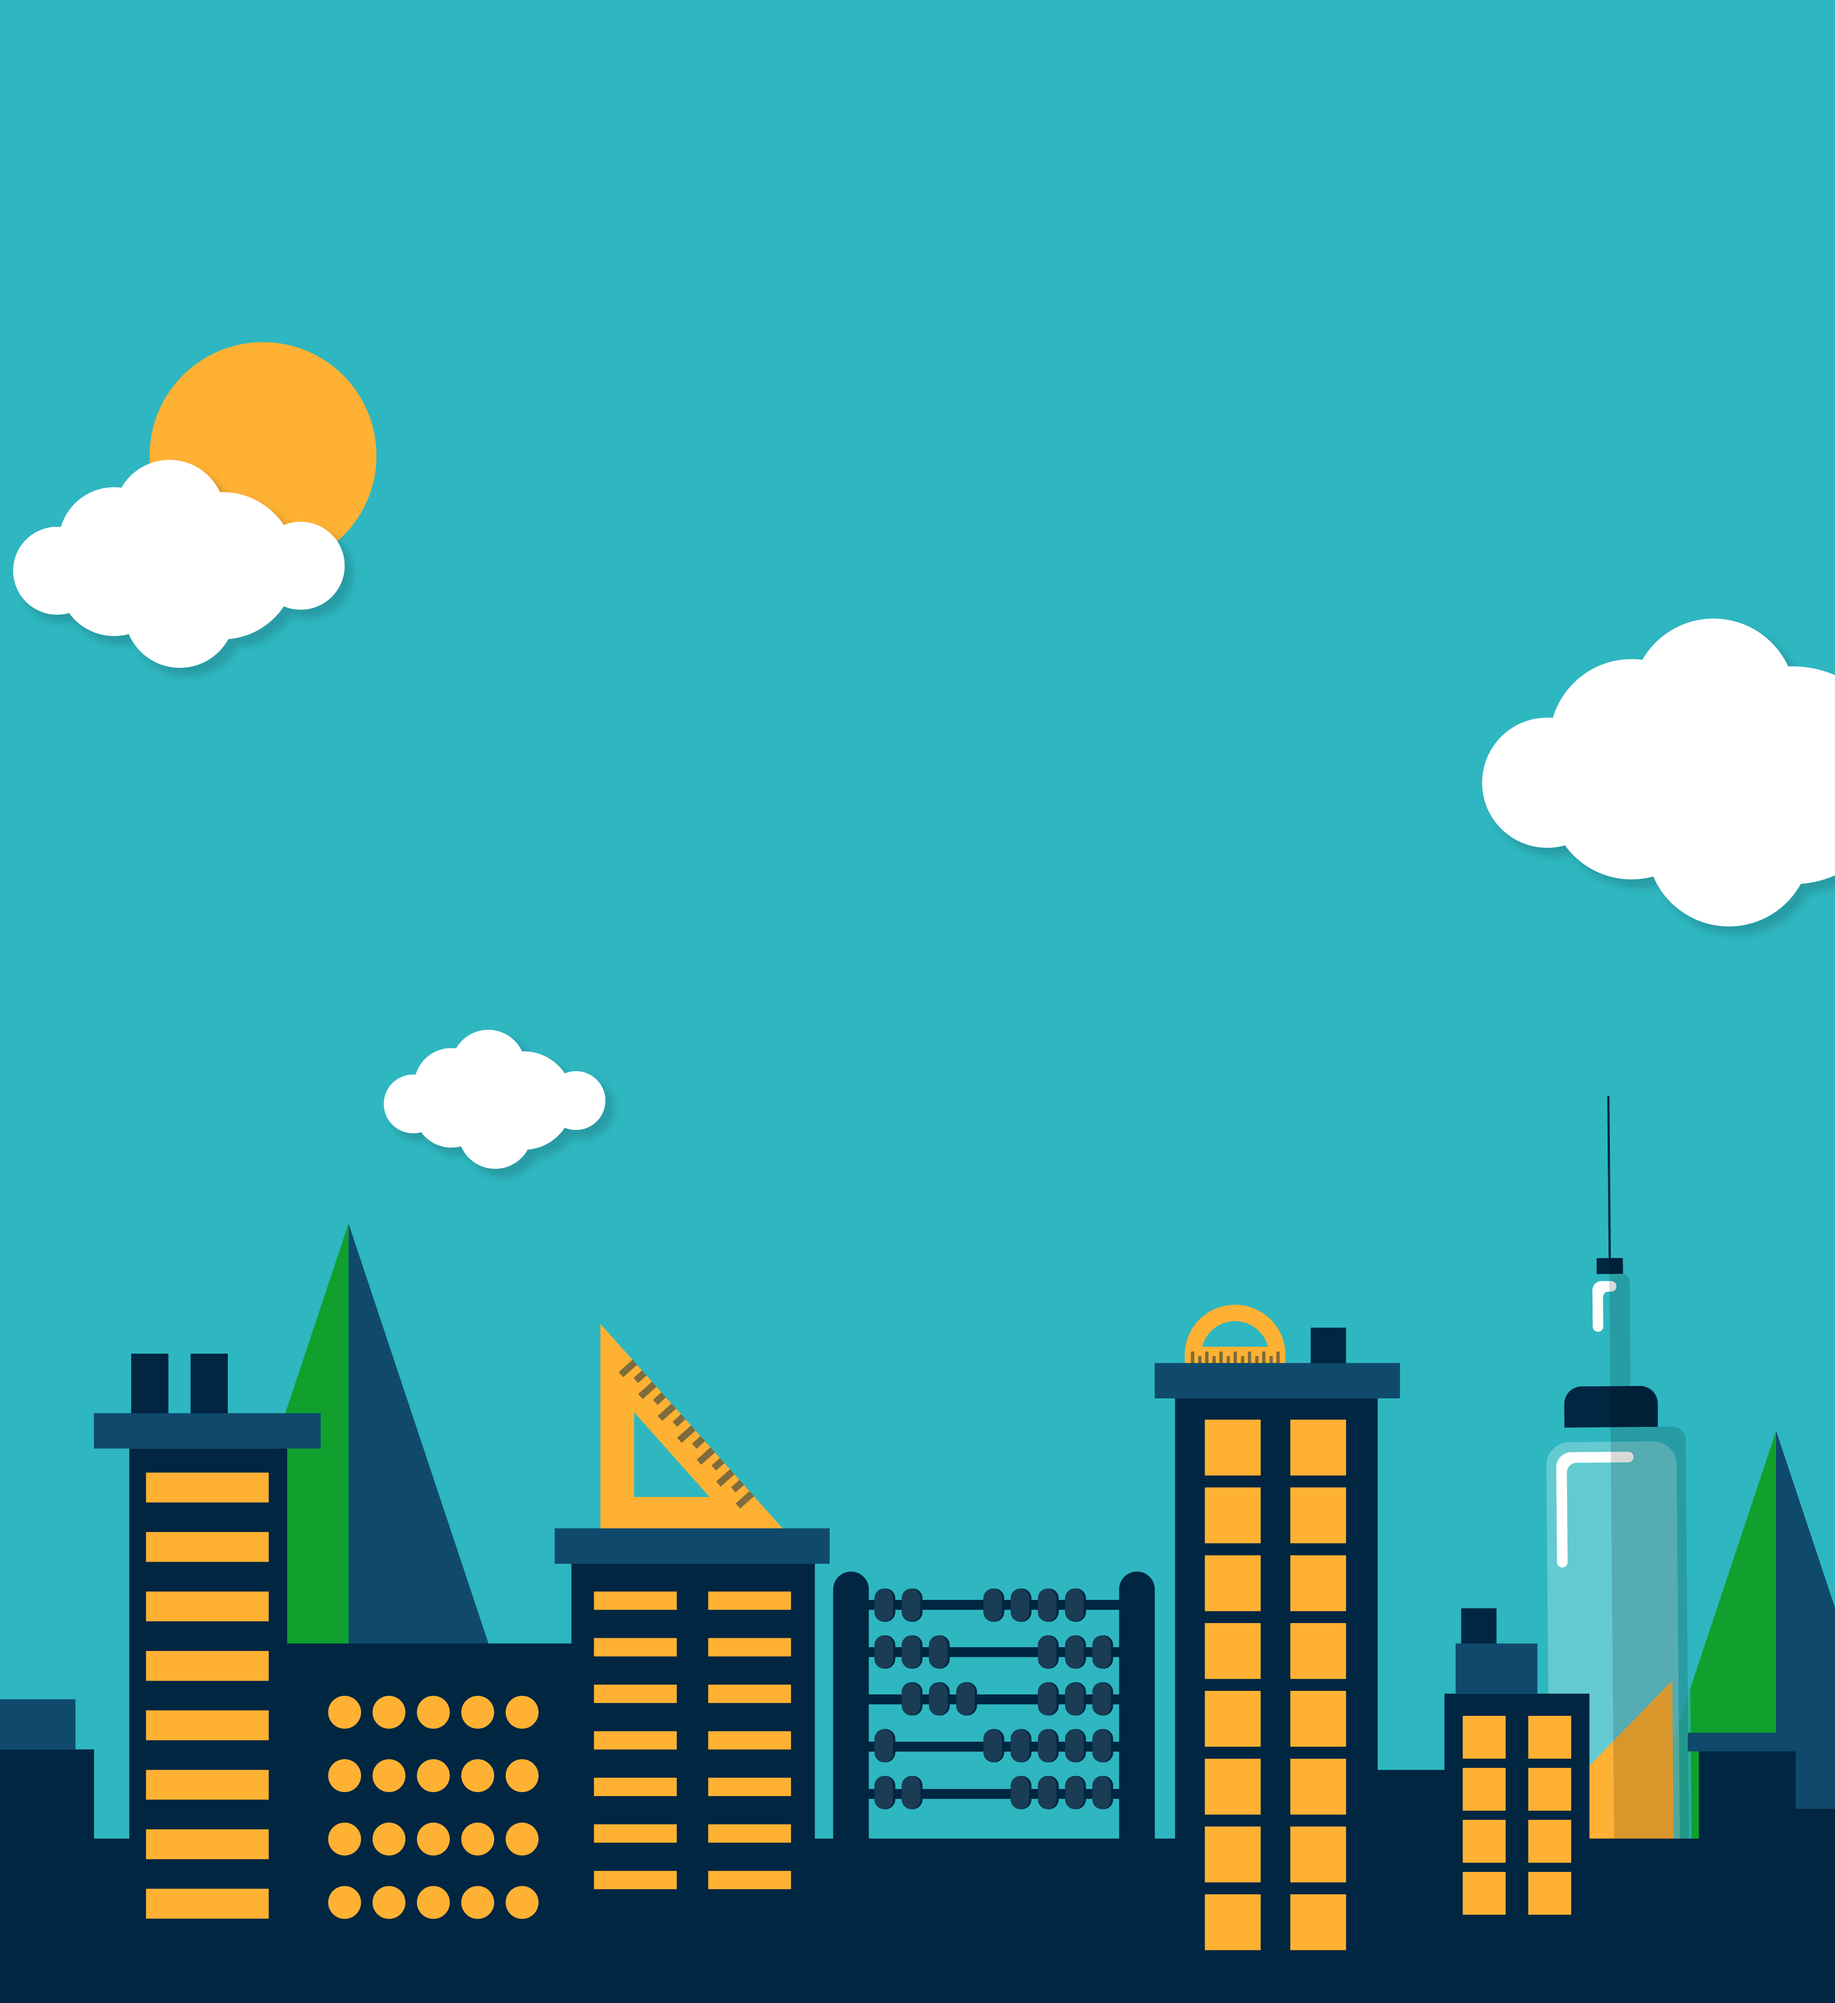
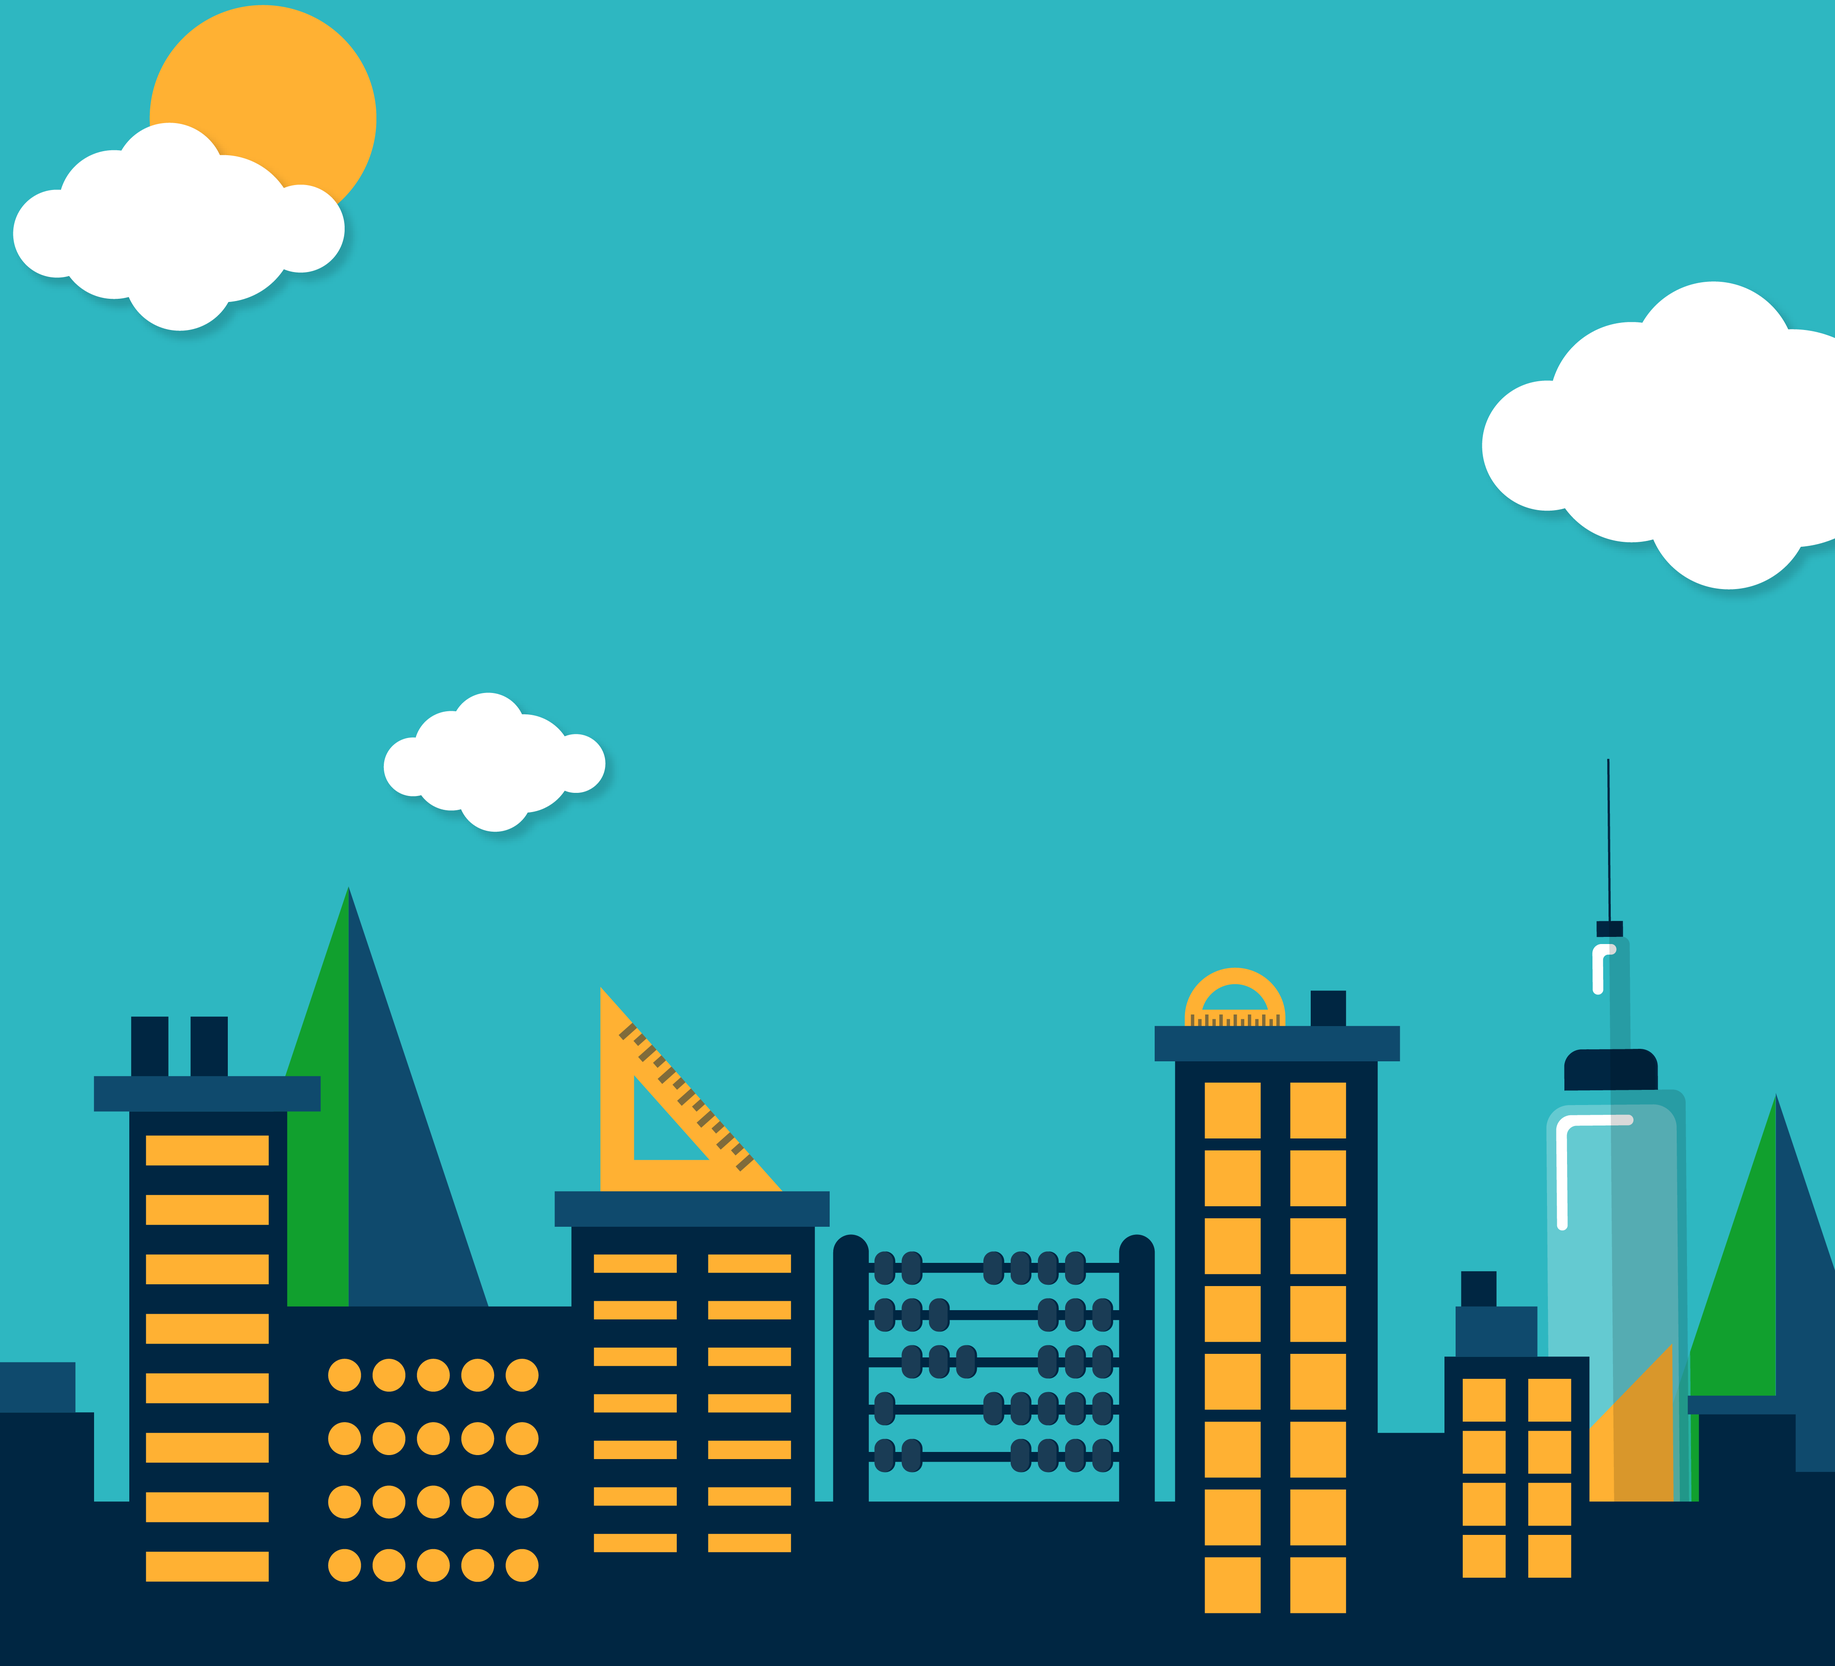
CI: fix welcome page UX #223

Changed region(s): [[0.0, 0.4036, 1.0, 0.9936], [0.8086, 0.1552, 1.0, 0.4657], [0.0, 0.0, 0.2177, 0.3415]]

diff --git a/ci/src/app/_components/welcome/welcome.component.scss b/ci/src/app/_components/welcome/welcome.component.scss
@@ -70,7 +70,7 @@
 				display: flex;
 				justify-content: center;
 				align-items: center;
-				flex-direction: column;
+				flex-direction: row;
 				flex-wrap: wrap;
 				z-index: 1;
 				.register-button, .login-button, .try-button {
@@ -118,14 +118,17 @@
 		float: right;
 		width: 50%;
 		height: 100%;
+		background-color: $teal;
 		background-image: url("/assets/images/welcome-bg.png");
-		background-size: cover;
+		background-size: contain;
+		background-position: center bottom;
 		background-repeat: no-repeat;
 		.right-text {
 			color: white;
 			font-size: 34px;
 			height: 100vh;
-		} 
+			z-index: 1;
+		}
 	}
 }
 
@@ -143,6 +146,7 @@
 	.welcome {
 		.left {
 			.logo-container {
+
 				.logo {
 					left: 54.5px; 
 					top: 19px;
@@ -253,9 +257,113 @@
 	.welcome {
 		.left {
 			width: 100%;
+			.logo-container {
+				height: 12%;
+				.logo {
+					left: 38.5px; 
+					top: 14px;
+				    width: 83.6px;
+				}
+			}
+			.left-container {
+				height: 88%;
+				.header {
+					width: 80%;
+				}
+				.copy {
+					width: 80%;
+				}
+				.line {
+					width: 82%;
+				}
+				.buttons-container {
+					width: 80%;
+					flex-direction: column;
+					.register-button, .login-button, .try-button {
+						width: 200px;
+					}
+				}
+				.bottom-text {
+					max-width: 200px;
+				}
+				.circle {
+				}
+			}
 		}
 		.right {
 			width: 100%;
+			.right-text {
+			}
+		}
+	}
+}
+
+@media only screen and (max-height: 500px) and (orientation: landscape) {
+	.welcome {
+		.left {
+			width: 100%;
+			.logo-container {
+				height: 20%;
+				.logo {
+					left: 38.5px; 
+					top: 14px;
+				    width: 83.6px;
+				}
+			}
+			.left-container {
+				height: 80%;
+				.header {
+					width: 80%;
+				}
+				.copy {
+					width: 80%;
+				}
+				.line {
+					width: 82%;
+				}
+				.buttons-container {
+					margin-top: 12px;
+					width: 80%;
+					flex-direction: column;
+					.register-button, .login-button, .try-button {
+						width: 200px;
+					}
+				}
+				.bottom-text {
+					margin-top: 4px;
+					max-width: 200px;
+				}
+				.circle {
+				}
+			}
+		}
+		.right {
+			width: 100%;
+			background-size: 100%;
+			.right-text {
+			}
+		}
+	}
+}
+
+@media only screen and (max-height: 350px) {
+	.welcome {
+		.left {
+			.left-container {
+				.buttons-container {
+					margin-top: 12px;
+					width: 98%;
+					flex-direction: row;
+					.register-button, .login-button, .try-button {
+						width: 28%;
+						margin: 0 4px;
+					}
+				}
+				.bottom-text {
+					margin-top: 4px;
+					max-width: 200px;
+				}
+			}
 		}
 	}
 }

diff --git a/ci/src/app/_components/welcome/welcome.component.html b/ci/src/app/_components/welcome/welcome.component.html
@@ -1,7 +1,7 @@
 <div class="welcome">
   <span class="left">
   	<div class="logo-container">
-  		<img src="./assets/images/logo.png" alt="Health Numeracy Project" class="logo">
+  		<img src="./assets/images/logo-blue.svg" alt="Health Numeracy Project" class="logo">
   	</div>
   	<div class="left-container">
   		<h2 class="header">
